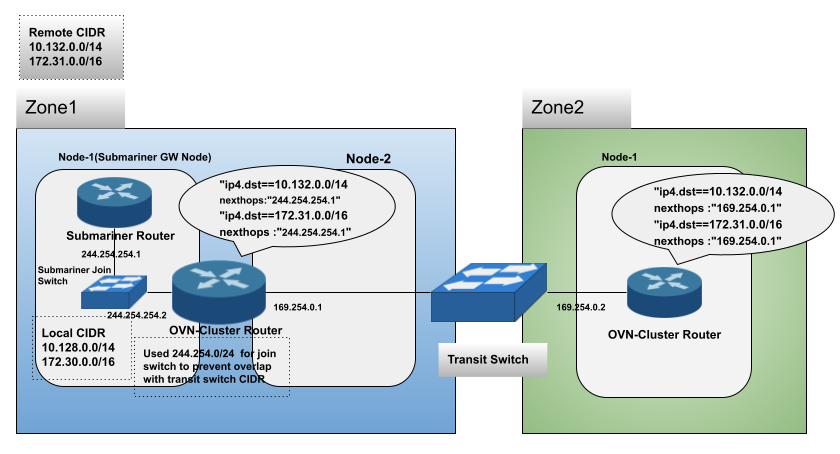
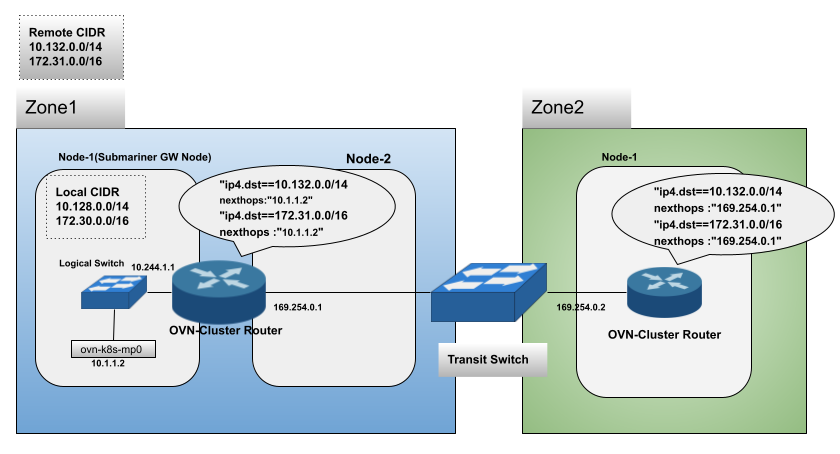
Updated the proposal with new design

diff --git a/submariner/OVN-Interconnect.md b/submariner/OVN-Interconnect.md
@@ -4,106 +4,162 @@
 
 ## Summary
 
-OVN CNI is moving to a new network topology powered by OVN Interconnect Feature. This allows independent
-OVN deployments to be interconnected by OVN-managed GENEVE tunnels. Submariner does not work with these changes
-out of the box and this proposal explains the changes required to support it.
+OVN CNI is moving to a new network topology powered by OVN Interconnect Feature. This allows independent OVN deployments to be interconnected
+by OVN-managed GENEVE tunnels. Submariner does not work with these changes out of the box and this proposal explains the changes required to
+support it.
 
 ## Proposal
 
 With OVN Interconnect we can have two types of deployment
 
-### Single Zone(Global Zone)
-
-A single-zone deployment will have only one OVN database and a set of master nodes programming it. This is similar to the topology that we
-use now. But it will have a single `global` zone assigned to it with a transit switch which is not involved in any packet forwarding. Though
-this setup is expected to work by default, the subnet that the transit switch
-used overlaps with the subnet Submariner uses for the logical router. So we need to agree upon a non-overlapping subnet for Submariner.
-In this proposal, I changed the Submariner router IP ranges to 244.254.254.0/8 for illustrative purposes.
+* Single Zone(Global Zone): A single-zone deployment will have only one OVN database and a set of master nodes programming it. This is similar
+  to the topology that we use now. But it will have a single `global` zone assigned to it with a transit switch which is not involved in any
+  packet forwarding. Though this setup is expected to work by default, the subnet that the transit switch used overlaps with the subnet
+  Submariner uses for the logical router. In this proposal, we plan to remove the submariner router and the associated switches and this will
+  not be a problem anymore. The below indicates node annotations in a single zone  OVN setup.
 
 ```bash
-    k8s.ovn.org/ovn-node-id: "5"
-    k8s.ovn.org/ovn-node-transit-switch-port-ips: '["169.254.0.1/16"]'
-    k8s.ovn.org/ovn-zone: global
+    annotations:
+      k8s.ovn.org/ovn-node-transit-switch-port-ips: '["169.254.0.1/16"]'
+      k8s.ovn.org/ovn-zone: global
+    name: cluster1-worker
+
+    annotations:
+      k8s.ovn.org/ovn-node-transit-switch-port-ips: '["169.254.0.1/16"]'
+      k8s.ovn.org/ovn-zone: global
+    name: cluster2-worker
 ```
 
-### Multiple Zone
-
-In a multiple-zone setup, we will have an OVN database and a set of master nodes for each zone. Transit switches connect the zones.
-The OVN-Kubernetes services ensure that the necessary routes are added for pod and service reachability across nodes in different zones.
+* Multiple Zone: In a multiple-zone setup, we will have an OVN database and a set of master nodes for each zone. Transit switches connect the
+  zones. The OVN-Kubernetes services ensure that the necessary routes are added for pod and service reachability across nodes in different
+  zones.
 
 ```bash
-    k8s.ovn.org/ovn-node-id: "3"
-    k8s.ovn.org/ovn-node-transit-switch-port-ips: '["169.254.0.3/16"]'
-    k8s.ovn.org/ovn-zone: global
+    annotations:
+      k8s.ovn.org/ovn-node-transit-switch-port-ips: '["169.254.0.3/16"]'
+      k8s.ovn.org/ovn-zone: global
+    name: cluster1-worker
 
-    k8s.ovn.org/ovn-node-id: "5"
-    k8s.ovn.org/ovn-node-transit-switch-port-ips: '["169.254.0.5/16"]'
-    k8s.ovn.org/ovn-zone: az2
-    
+    annotations:
+      k8s.ovn.org/ovn-node-transit-switch-port-ips: '["169.254.0.5/16"]'
+      k8s.ovn.org/ovn-zone: az2
+    name: cluster2-worker
 ```
 
 With the current architecture, Submariner adds routes only in the zone in which it is deployed. For example, if Submariner is deployed in
 zone 1 it programs OVN db in zone 1. So only pods in zone 1 nodes will be able to talk to other clusters. Pods in zone 2 or zone 3 will not
 be able to reach remote clusters connected via Submariner.
 
-In this proposal, we explore two options to make Submariner work with OVN IC. More details about the upgrade and other design details shall
-be added once agree on one of them.
+### Route APIs
 
-### Option1: Add extra routes in existing Architecture
+As a part of this proposal, we are planning to add two new CRDs in Submariner
 
- This proposal makes minimal changes in the network plugin syncer to get OVN IC working. With this, we add new routes in the OVN cluster
-router.
+#### SubmarinerGwRoute
+
+This CR will be created when a remote endpoint is added and there will be one CR per remote cluster. This crd have two fields
+
+* NextHop - Specifies the next hop to reach the remote cluster.
+* RemoteCIDR - Specifies the list of  remote CIDRS reachable via this cluster.
+
+This CR will be used by the gateway pod to program OVN to send the traffic destined to remote clusters to the Submariner tunnel.
+
+``` go
+type SubmarinerGwRouteList struct {
+  metav1.TypeMeta `json:",inline"`
+  metav1.ListMeta `json:"metadata"`
+
+  Items []SubmarinerGwRoute `json:"items"`
+  }
+
+type SubmarinerRoutePolicySpec struct {
+    //Specifies the next hop to reach the remote CIDRs
+    NextHop string `json:"nextHop"`
+
+    //Specifies the remote CIDRs available via the next hop
+    RemoteCidr []string `json:"remoteCidr"`
+}
+```
+
+#### SubmarinerDefaultRoute
+
+This CR will be created when a remote cluster is connected. When more remote clusters are added the Remote CIDR list will be updated.
+
+* NextHop - Specifies the next hop.
+* RemoteCIDR - Specifies the list of remote CIDRs reachable via this gateway.
+
+This CR will be used by the Routeagent pods to
+
+* In non-g/w node - send the traffic to the g/w node , if the current node is in a different zone
+* In g/w node - add route to send the traffic from other zones, destined to remote cluster to the submariner tunnel
+
+``` go
+type SubmarinerDefaultRouteList struct {
+    metav1.TypeMeta `json:",inline"`
+    metav1.ListMeta `json:"metadata"`
+
+    Items []SubmarinerDefaultRoute `json:"items"`
+}
+
+type SubmarinerRoutePolicySpec struct {
+    //Specifies the next hop to reach the remote CIDRs
+    NextHop string `json:"nextHop"`
+
+    //Specifies the remote CIDRs available via the next hop
+    RemoteCidr []string `json:"remoteCidr"`
+}
+```
+
+## Design Details
+
+In this proposal, the plan is to remove the Submariner router and switches that it add to OVN db. The network-plugin-syncer shall be removed
+and can be replaced by controllers in Submariner Gateway and Submariner RouteAgent. Since we have multiple ovn db to program, we need multiple
+connections. So it makes it easier to program the OVN datapath from Submariner Gateway and RouteAgent, than using a separate pod.
+This new approach will work for both IC enabled and existing deployments. With this change we are planning to use the  ovn-k8s-mp0 interface
+to reach the host networking stack and then the Submariner tunnel. This interface is used by OVN for host-networking traffic with in a cluster
+and will be present in every node.
 
 ![UpdatedTopology](./images/submariner-ovn-ic.png)
 
-These are the changes that will be needed
+### SubmarinerGatewayPod
 
-1) Network plugin Syncer needs to be `zone` aware
-2) In the `zone` where Submariner Gateway is present an extra route will be added to the `ovn-cluster-router` to direct the traffic to remote
-CIDRs connected via submariner via the Submariner router. This is to facilitate inter-cluster connectivity for traffic generated from other
-zones of the cluster.
-3) In all the other zones a route will be added to direct the traffic to remote cluster CIDRs, connected via submariner, to the transit
-switch that connects to the gateway node
+The Submariner g/w pod will be responsible for creating the SubmarinerGWRoute CR. It will be used only for OVN CNI right now. For every
+RemoteEndpointCreated event a SubmarinerGWRouteCR will be created. The nextHop will be the interface IP through which we can reach the cable
+driver. In the case of OVN it will be the IP of ovn-k8s-mp0 interface.
 
-#### Node Listener
+The SubmarinerDefaultRoute CRD will also be created by Submariner Gateway. It will have the list of remote clusters connected to the gateway.
+The nexthop will be the transit switch IP of the G/W node. If the transit switch IP is missing this CRD will not be created, which means it is
+a non-IC setup.
 
-A new node listener shall be added in NetworkPluginSyncer.
+#### SubmarinerGWRouteCR Controller
 
-* The node listener shall be responsible for reading the node labels/annotations and identifying the zone in which the Submariner gateway is
-deployed and the transit switch IP for it.
-* When a new node is added or a node joins a zone, the node listener needs to call the NetworkPluginSyncer handler to program the required
-rules. It will also remove any existing stale rules.
-* When a node leaves no action is needed
-* When the gateway nodes join a new zone, leaving the current one, all the switches will need to be reprogrammed as the transit switch IP
-can change.
-
-#### Network Plugin Syncer
-
-Based on the info retrieved by the Node listener, the network plugin syncer can provision the Submariner infrastructure and program the
-rules in the OVN database.
-
-* If no zone is detected(will be required for backward compatibility) or a global zone is detected the Submariner infrastructure and flows
-will remain as it is today.
-
-* If a zone configuration is detected
-
-1) In the gateway node zone a new routing rule can be added to forward the traffic destined for Submariner remote CIDRs
-to the Submariner router. This is required for the traffic coming from pods in a node that are in a different zone.
+This controller will be responsible for programming the OVN cluster router, and it shall be a part of Submariner g/w pod. When a SubmarinerGWRoute
+CR is created  or modified the controller shall create or update a routing policy in OVN cluster router with a priority of 20000, and it should
+redirect any traffic destined to remote CIDR to the ovn-k8s-mp0 interface IP.
 
 ```bash
 _uuid               : 0459f009-3603-47ac-8ee7-9d958540ed31
 bfd                 : []
 external_ids        : {}
 ip_prefix           : "242.1.0.0/16"
-nexthop             : "244.254.254.1"
+nexthop             : "10.244.1.2"
 options             : {}
 output_port         : []
 policy              : []
 route_table         : ""
 ```
 
-2) In the non-gateway zones a route will be added for the traffic destined for remote cluster CIDR to forward it to the gateway node
-transit switch.
+#### SubmarinerRouteAgentPod
+
+The Routeagent will have a new controller added to it
+
+##### SubmarinerDefaultRouteController
+
+This controller will run in every in route agent. This controller connects to the OVN DB. When a SubmarinerDefaultRoute CR is created
+
+* non-gateway node : it updates the DB with a router policy with a priority 20000 to send the traffic to the remote cluster via next hop
+  mentioned, which is the transit switch IP to the g/w node. Before adding the route it checks if a route exists, if so it skips adding the
+  route again. This is required to prevent duplicate update since there can be more than one node in each zone and hence more than one
+  Routeagent.
 
 ```bash
 _uuid               : 22db3005-64c5-4e32-aeb0-642423c30742
@@ -116,44 +172,33 @@ options             : {"external_ids:{submariner"="true}"}
 priority            : 20000
 ```
 
-#### Pros of Option1
+* gateway node/same zone node : In the gateway node route agent adds a route, if it does not exist, to send the traffic coming from other
+  zones which is destined to remote cluster IP range to the ovn-k8s-mp0 interface IP. It checks if the rule already exists to prevent duplicate
+  update.
 
-This makes the least changes than option 2 and can be delivered within the time frame we have.
-
-#### Cons of Option1
-
-It depends on OVN labels/annotations for programming the routes, which means a change in these would break Submariner. Also given the plans
-to change the OVN -Submariner architecture this has to be reworked in future.
-
-### Option2: Submariner OVN Re-architecture
-
-There is an effort to optimize Submariner OVN integration. As a part of this Submariner Router and related ports and join switch shall be
-removed.  The OVN gateway router needs to be configured not to SNAT the traffic destined to local Cluter CIDR/ Global net CIDRS(This is now
-the default behaviour of OVN, we need it to test it though).
-
-Further, with this optimization Submariner should stop configuring the OVN cluster router with Logical Route policies using OVN APIs
-directly. OVN should expose CRD, which Submariner can use to program the OVN cluster router with the required Logical router policy and
-routes. If done, the Submariner need not be aware of the OVN infrastructure details like zones and transit switches. An OVN plugin (or a
-component in OVN) can consume the CRD and program the routing rules and provision the infrastructure required by Submariner.
-
-While this is a cleaner and maintainable implementation it will not be possible to deliver it by the next Submariner release. Also, we need
-to agree upon the APIs required in OVN and their implementation.
-
-#### Pros of Option2
-
-This will lead to a more maintainable code and fewer moving parts and this is how we plan Submariner-OVN integration will be in future.
-
-#### Cons of Option2
-
-It takes more time to implement this option. Submariner changes need to wait until OVN changes required for Submariner are done.
-
-## Design Details
+```bash
+_uuid               : d55185d8-3732-45c1-ae90-4a7f8cd191f7
+bfd                 : []
+external_ids        : {}
+ip_prefix           : "242.1.0.0/16"
+nexthop             : "10.244.1.2"
+options             : {}
+output_port         : []
+policy              : []
+route_table         : ""
+```
 
 ### Backward Compatibility
 
-<!-- Any backward compatibility concerns -->
+With this architecture, we are removing the logical switches and routers that Submariner creates. During migration, we will need to delete
+these components and the routes that network-plugin-syncer installed. After that, the new controllers shall install the updated routes.
 
 ### Alternatives
+
+#### Adding extra routes
+
+We explored a proposal for adding an extra routes in the existing architecture. This would mean adding same extra routes as in this proposal
+but by maintaining the submariner switches and router. While this should be easier to implement this be maintenance overhead in the future.
 
 #### Route Advertisement
 
@@ -173,4 +218,5 @@ These OVN changes should be merged for OVN Interconnect support in the CNI
 
 ## User Impact
 
-<!-- Optional. Any impact on users this change may have. -->
+The user should be able to use Submariner in OVN enabled setups as well the non-IC ones. The pods that the user see when a Submariner is deployed
+will change and similar change can be expected in diagnose command outputs.
